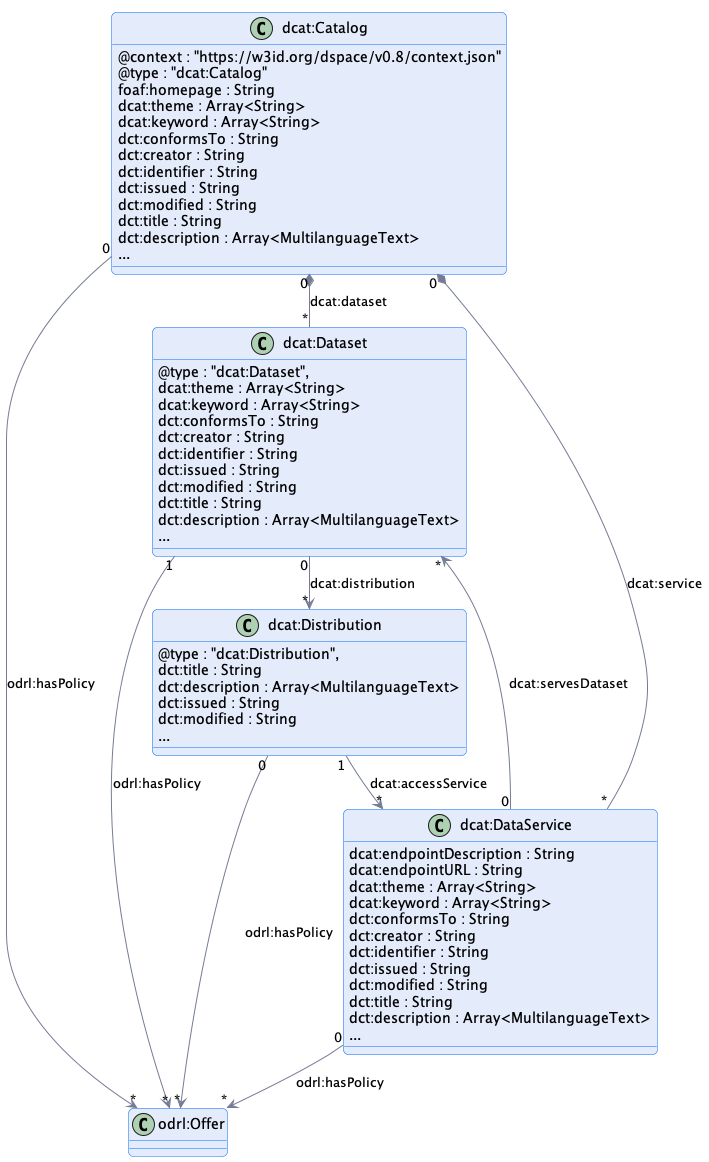
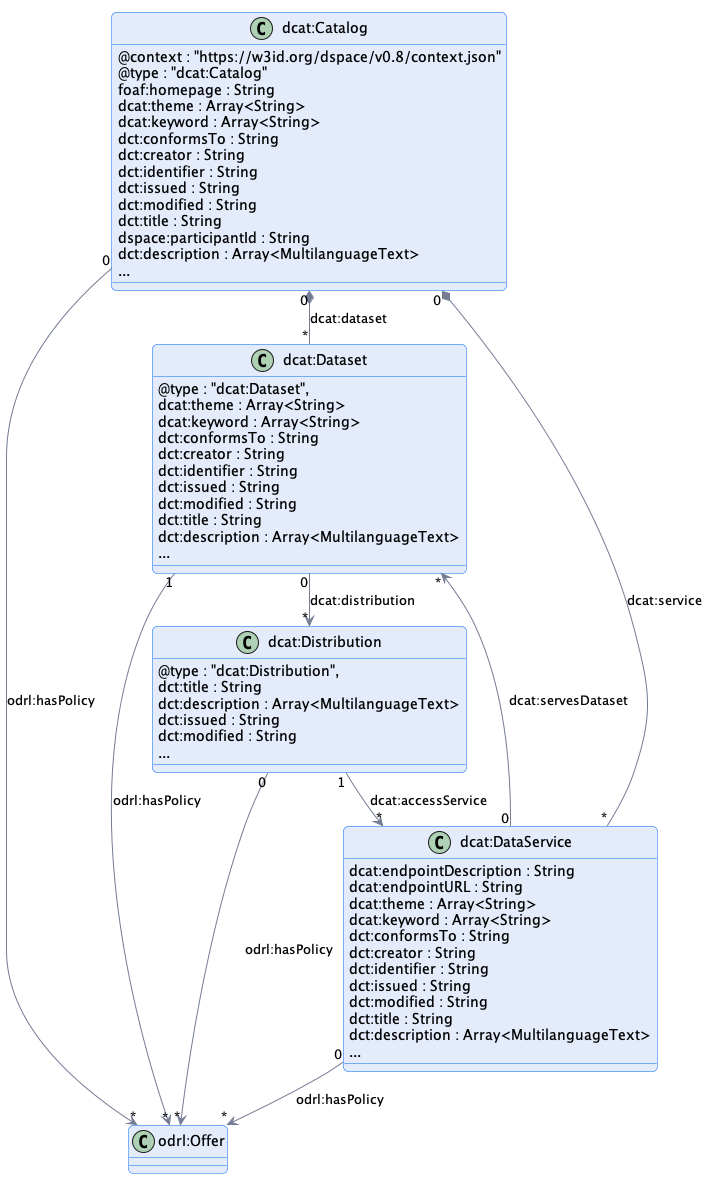
Add participant id to catalog (#226)
* Add participant id to catalog

* Replace with links

* add dspace:participantId to the schemes and diagrams

---------

diff --git a/catalog/catalog.protocol.md b/catalog/catalog.protocol.md
@@ -77,6 +77,10 @@ The following table lists well-know endpoint types:
 
 Note that the property `dcat:servesDataset` should be omitted from the `DataService` since [Datasets](../model/terminology.md#dataset) are included as top-level entries. Clients are not required to process the contents of `dcat:servesDataset`.
 
+#### 1.1.4 Participant Id
+
+The identifier of the participant providing the [Catalog](../model/terminology.md#catalog) is specified using the `dspace:participantId` attribute on that [DCAT Catalog](https://www.w3.org/TR/vocab-dcat-3/#Class:Catalog).
+
 ### 1.2 DCAT and ODRL Profiles
 
 The [Catalog](../model/terminology.md#catalog) is a [DCAT Catalog](https://www.w3.org/TR/vocab-dcat-3/#Class:Catalog) with the following restrictions:
